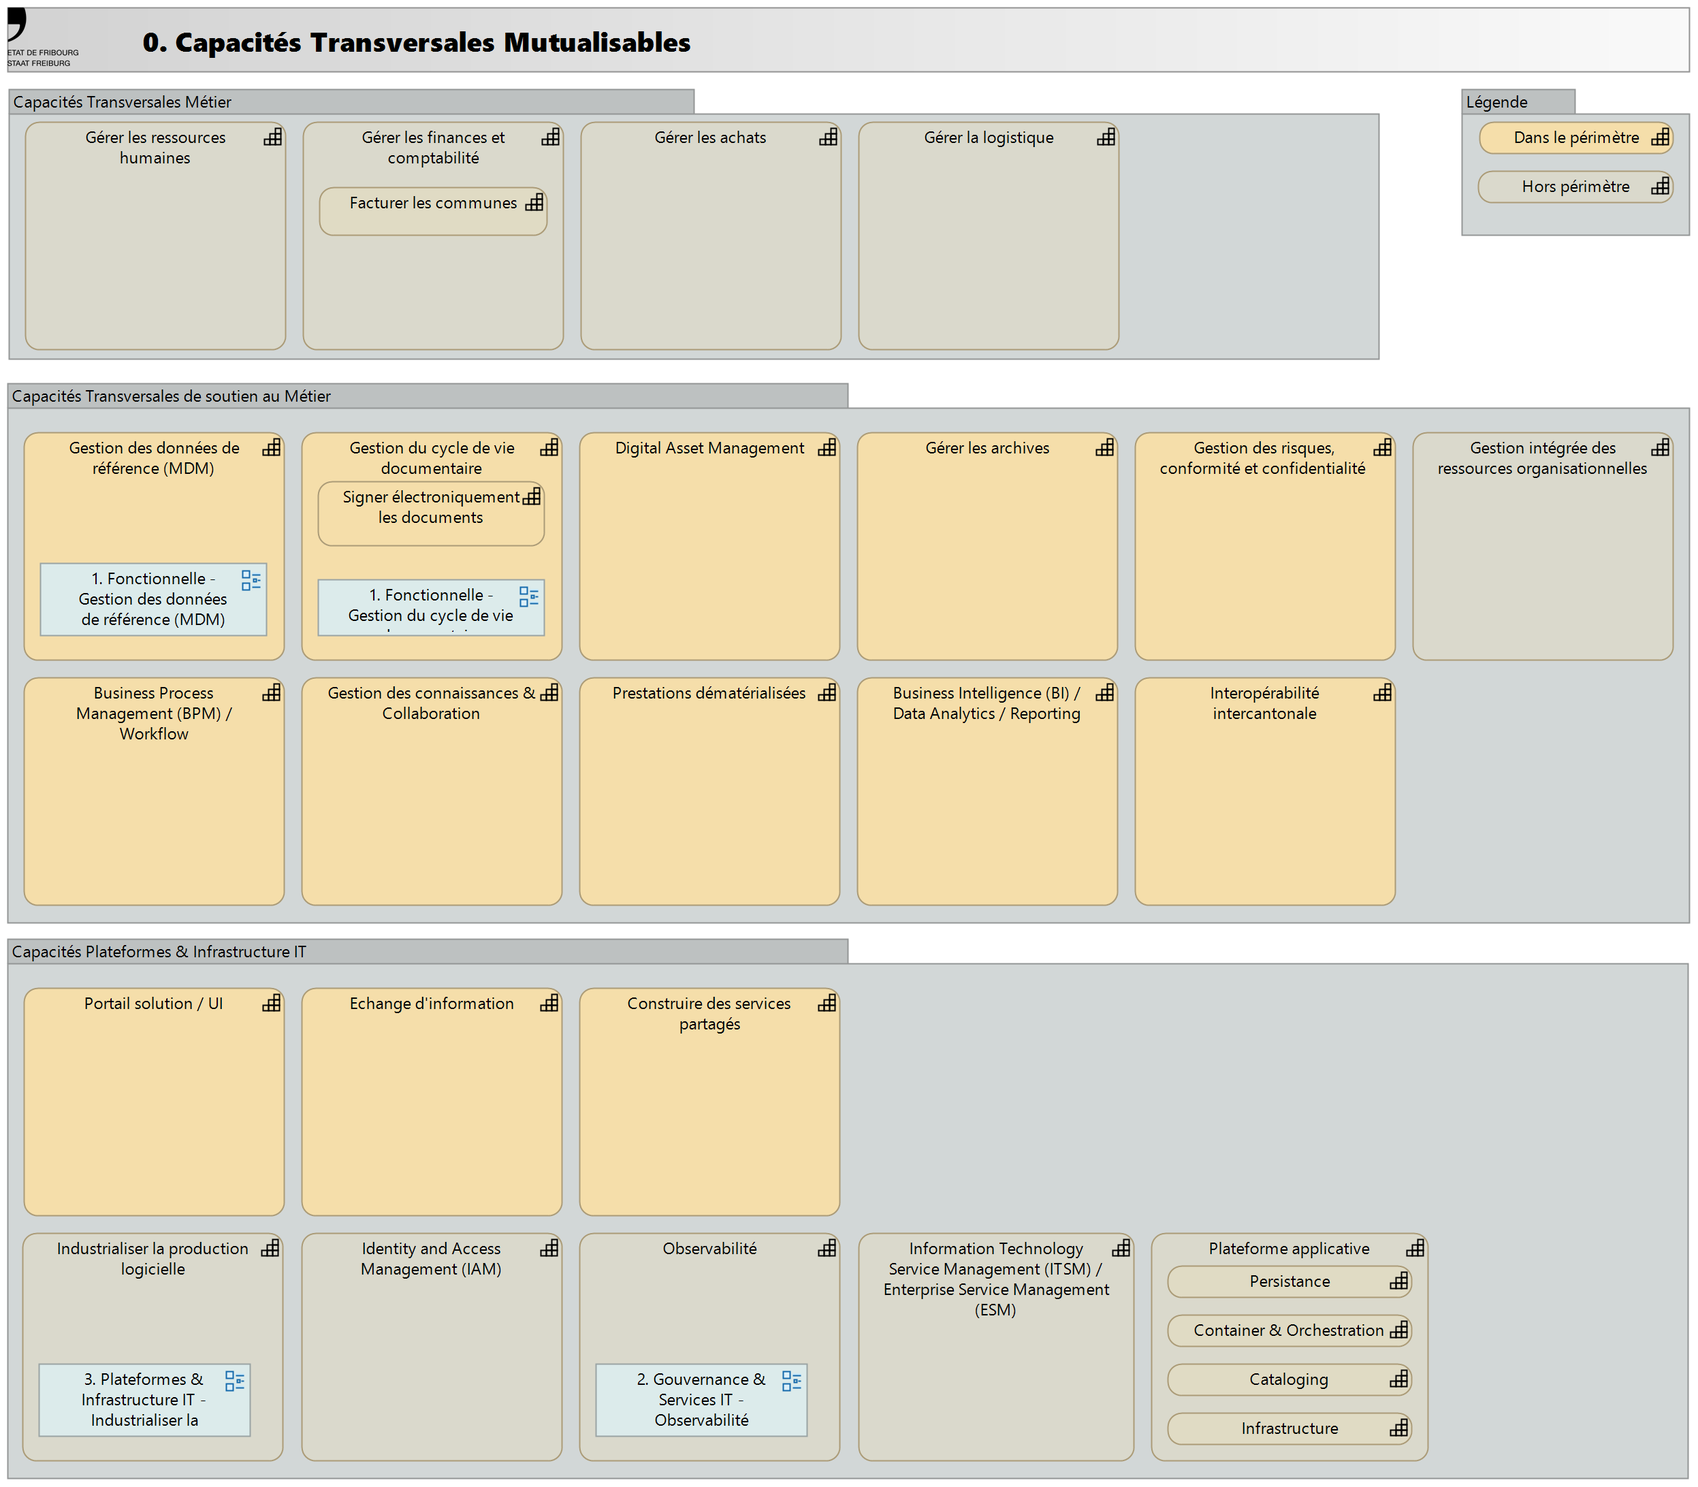
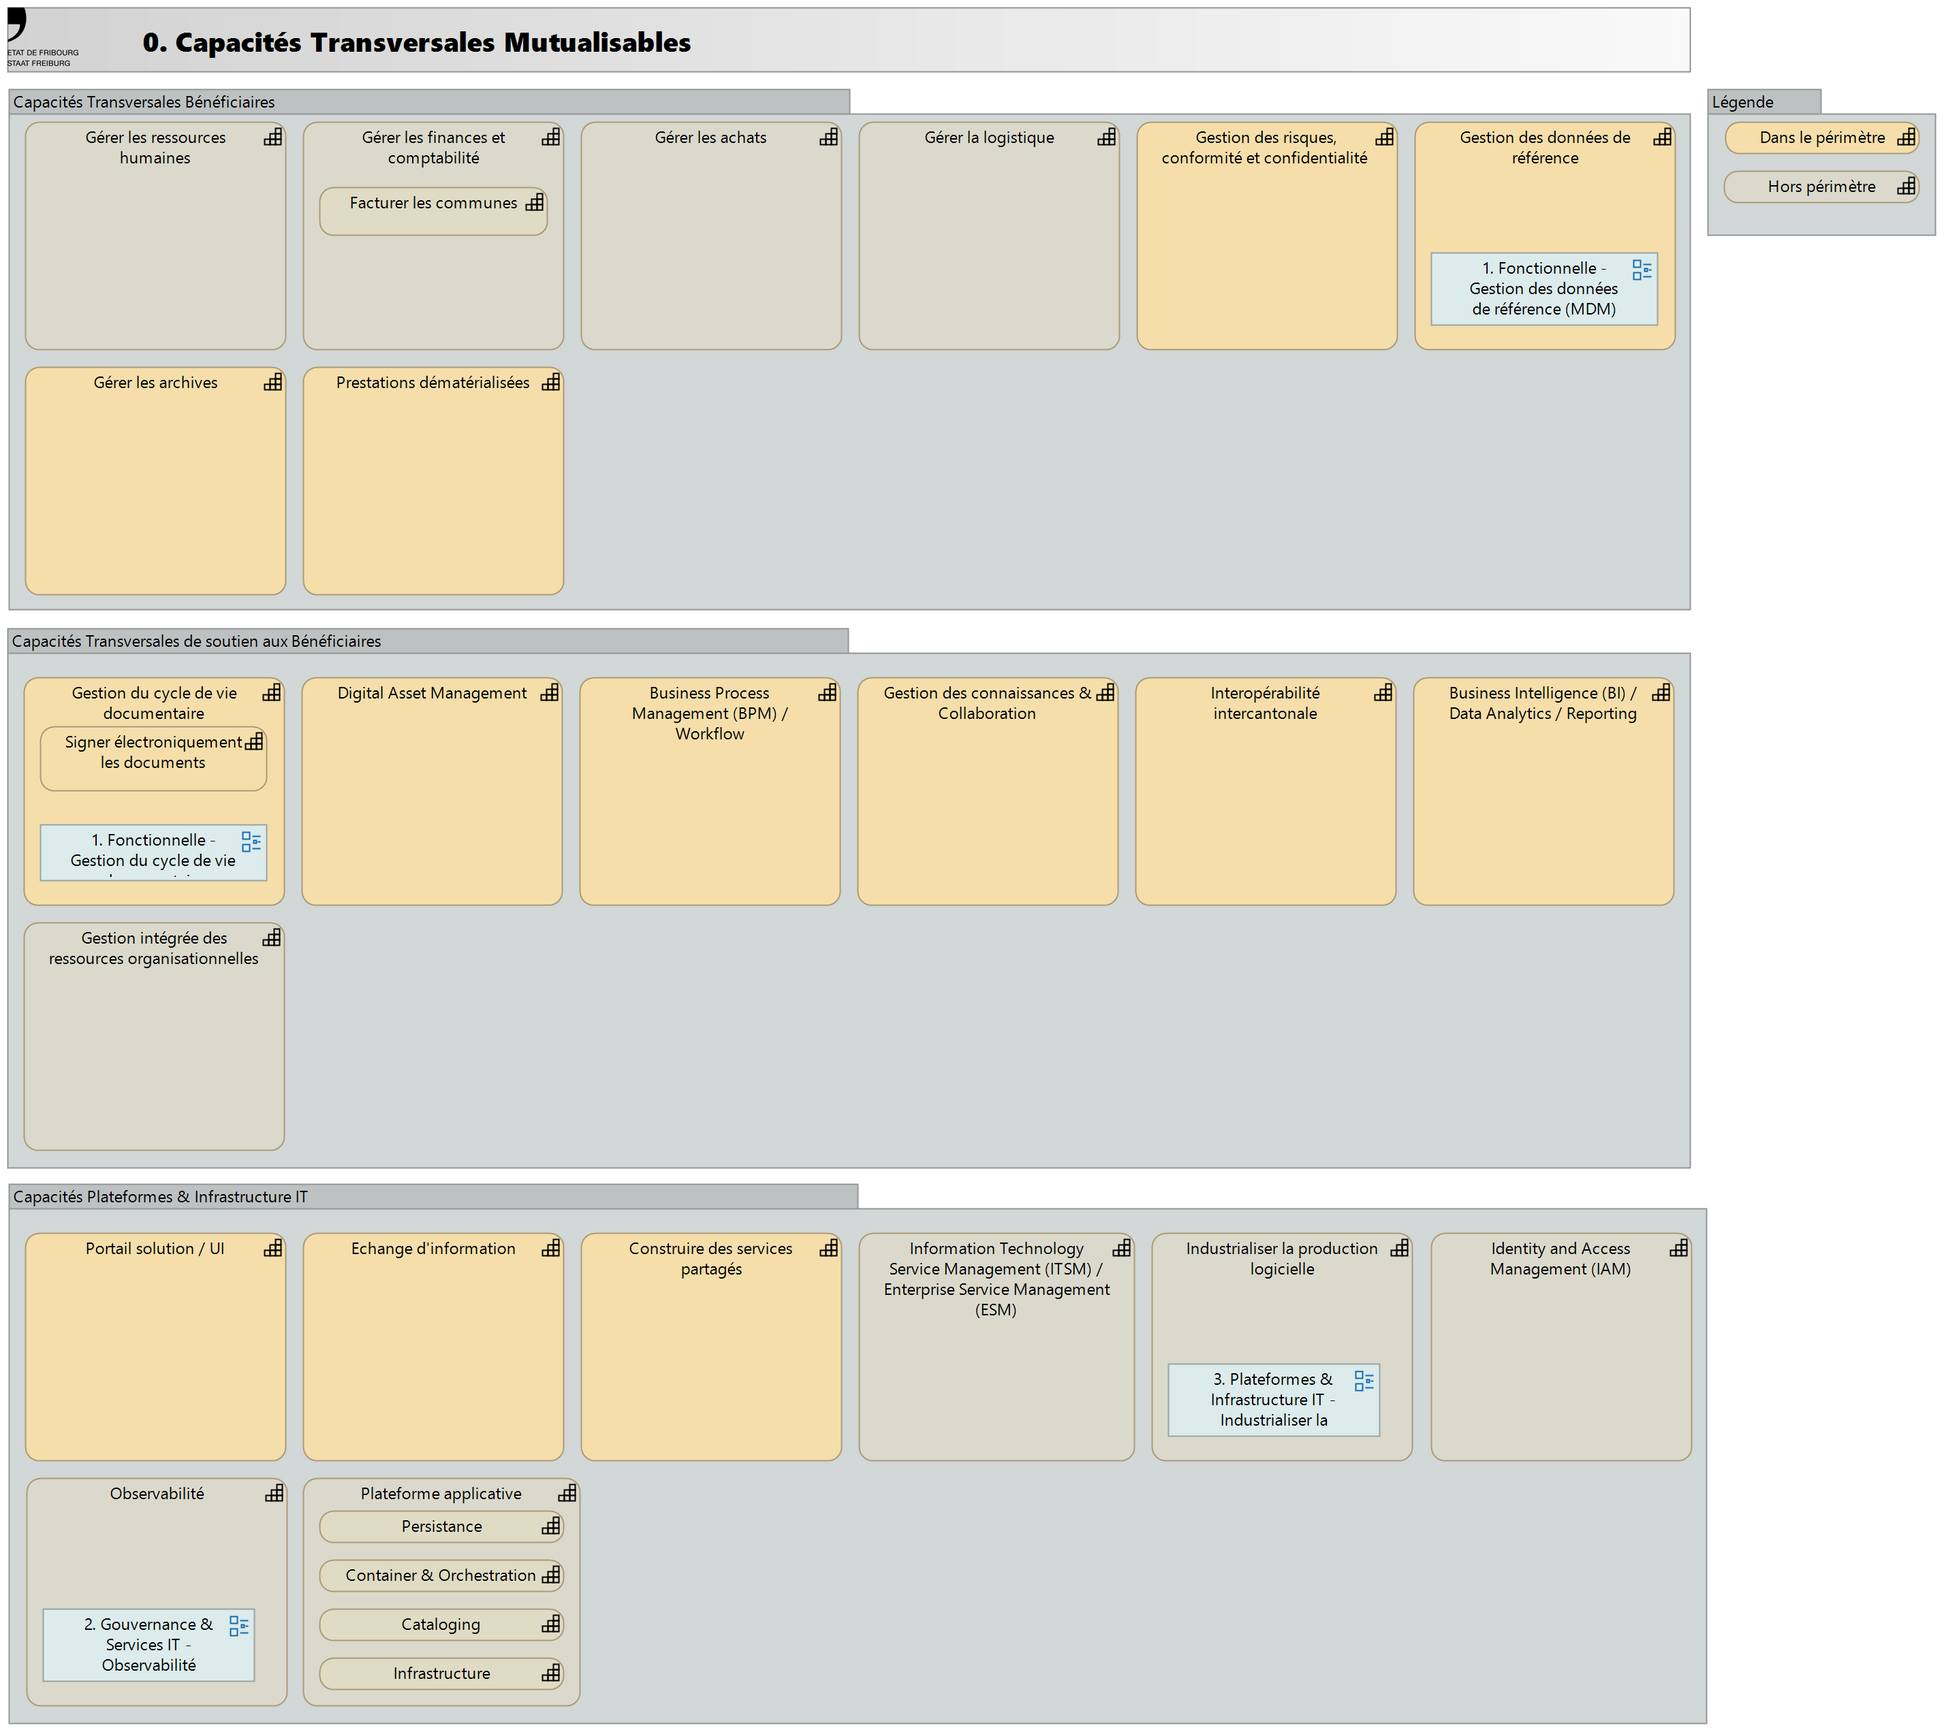
Minor fix on path access

diff --git a/_clients/SITEL/extractMD/0.-Capacités-Transversales-Mutualisables.md b/_clients/SITEL/extractMD/0.-Capacités-Transversales-Mutualisables.md
@@ -7,7 +7,7 @@ title: "Capacity Overview"
 ![0. Capacités Transversales Mutualisables](0.-Capacités-Transversales-Mutualisables.png)
 
 
-## Capacités Transversales de soutien au Métier
+## Capacités Transversales de soutien aux Bénéficiaires
 
 |Capacité|Intention|
 |-|-|
@@ -15,13 +15,9 @@ title: "Capacity Overview"
 |Gestion du cycle de vie documentaire|Capacité à produire, classifier, valider, diffuser, archiver et détruire les documents institutionnels tout au long de leur cycle de vie, en garantissant leur intégrité, traçabilité et conformité légale. Couvre les documents structurés et non structurés, papier et numériques.<br><br>Éléments clés <br>- Création et capture de documents (production, numérisation, import)<br>- Classification et indexation selon plan de classement métier<br>- Gestion des métadonnées documentaires<br>- Workflow de validation et d'approbation<br>- Gestion des versions et des révisions<br>- Contrôle d'accès et droits de consultation<br>- Distribution et diffusion contrôlée<br>- Gestion de la durée de conservation (calendrier de conservation)<br>- Gestion hybride papier/numérique|
 |Business Intelligence (BI) / Data Analytics / Reporting|Capacité à collecter, transformer, analyser et restituer les données de l'organisation pour produire des indicateurs, tableaux de bord et analyses au service du pilotage décisionnel. Couvre l'analytics descriptif, prédictif et prescriptif.<br><br>Éléments clés<br>- Extraction et intégration de données multi-sources (ETL/ELT)<br>- Modélisation dimensionnelle et entrepôts de données (data warehouse)<br>- Création de tableaux de bord interactifs et indicateurs (KPI)<br>- Reporting standardisé et ad-hoc<br>- Analyse self-service (libre-service pour utilisateurs métiers)<br>- Analytics avancé (statistiques, data mining, ML)<br>- Analytics prédictif et prescriptif<br>- Visualisation de données (dataviz)<br>- Distribution automatisée des rapports<br>- Conformité à la protection des données (anonymisation, pseudonymisation)|
 |Gestion des connaissances & Collaboration|Capacité à capitaliser, structurer, partager et valoriser les connaissances explicites et tacites de l'organisation. <br>Favorise le travail collaboratif synchrone et asynchrone, le partage d'expertise et l'intelligence collective entre collaborateurs et directions.<br><br>Éléments clés <br>- Capitalisation des connaissances expertes et documentaires<br>- Base de connaissances structurée et moteur de recherche<br>- Espaces collaboratifs par projet ou communauté de pratique<br>- Coédition de documents en temps réel<br>- Gestion des wikis et documentation collaborative<br>- Forums de discussion et questions-réponses<br>- Partage de fichiers et gestion de versions collaboratives<br>- Outils de communication synchrone (visioconférence, messagerie instantanée)<br>- Gestion des communautés de pratique|
-|Prestations dématérialisées|Capacité à proposer des services publics numériques accessibles en ligne aux citoyens, entreprises et autres usagers. Couvre l'ensemble du parcours utilisateur : information, authentification, saisie de demande, suivi de dossier, paiement, notification, archivage.<br><br>Éléments clés <br>- Catalogue de services en ligne (guichet virtuel)<br>- Authentification forte et gestion des identités usagers (eID, SwissID)<br>- Formulaires intelligents et dématérialisés<br>- Saisie et dépôt de demandes en ligne<br>- Signature électronique pour les usagers<br>- Paiement en ligne sécurisé<br>- Suivi de dossier en temps réel (statuts, notifications)<br>- Espace personnel usager (historique, documents)<br>- Notifications multicanales (email, SMS, push)<br>- Accessibilité numérique (WCAG, normes P028)<br>- Multilinguisme (FR/DE minimum)<br>- Intégration avec les systèmes back-office métiers<br>- Archivage probant des transactions<br>- Support omnicanal (web, mobile, bornes)|
 |Digital Asset Management|Capacité à centraliser, organiser, enrichir et diffuser les actifs numériques de l'administration cantonale : images, vidéos, fichiers audio, logos, chartes graphiques, publications. Assure la gestion des droits d'auteur, des métadonnées, des versions et facilite la réutilisation contrôlée des contenus multimédias par les directions et partenaires.<br><br>Éléments clés<br>- Centralisation des contenus multimédias<br>- Gestion des métadonnées et taxonomies<br>- Gestion des droits et licences<br>- Gestion des versions et workflow de validation<br>- Recherche et diffusion des actifs<br>- Transformation et adaptation des formats<br>- Traçabilité des usages<br>- Intégration avec les outils de publication (web, print)|
 |Gestion intégrée des ressources organisationnelles|Capacité à gérer de manière intégrée les ressources financières, matérielles, humaines et logistiques de l'organisation cantonale. Assure la cohérence des données transactionnelles et le pilotage opérationnel transverse (finances, achats, RH, logistique).<br><br>Éléments clés<br>- Gestion financière intégrée (comptabilité générale, analytique, budgétaire)<br>- Gestion des ressources humaines (administration du personnel, paie)<br>- Gestion des achats et approvisionnements<br>- Gestion des stocks et inventaires<br>- Gestion logistique (bâtiments, véhicules, équipements)<br>- Gestion des projets et investissements<br>- Gestion des immobilisations<br>- Consolidation multi-entités<br>- Workflows de validation intégrés (engagements, factures, notes de frais)<br>- Reporting transversal consolidé<br>- Gestion des interfaces avec systèmes métiers spécifiques<br>- Conformité aux standards publics (MCH2, plan comptable cantonal)<br>- Traçabilité et audit trail complet|
-|Gestion des risques, conformité et confidentialité |Capacité à protéger les systèmes d'information contre les cybermenaces, à garantir la conformité aux exigences légales IT/Data (LPD, RGPD) et à assurer la confidentialité des données sensibles. Couvre la cybersécurité, la gestion des vulnérabilités et la prévention de la perte de données.<br><br>Éléments clés<br>- Identification et évaluation des risques cyber et données<br>- Gestion des vulnérabilités et patchs de sécurité<br>- Détection et réponse aux incidents de sécurité (SOC)<br>- Protection contre les malwares et ransomwares<br>- Gestion des accès privilégiés<br>- Chiffrement des données sensibles (at rest, in transit)<br>- Data Loss Prevention (DLP)<br>- Conformité LPD/RGPD (registre des traitements, DPIA, gestion des droits)<br>- Gestion des consentements et des droits des personnes<br>- Security awareness et formation des utilisateurs<br>- Tests d'intrusion et audits de sécurité<br>- Plan de continuité et de reprise après incident (PCA/PRA)<br>- Conformité aux standards (ISO 27001, NIST)<br>- Gestion des tiers et fournisseurs (risque cyber supply chain)|
-|Gérer les archives|Capacité à assurer la conservation à long terme des documents ayant une valeur légale, historique ou patrimoniale, conformément à la législation cantonale sur l'archivage. Couvre l'évaluation archivistique, le versement, le classement, la conservation pérenne (physique et numérique), la valorisation et la communication des archives publiques aux chercheurs et citoyens.<br><br>Éléments clés<br>- Évaluation et sélection des documents à archiver<br>- Versement des archives courantes et intermédiaires<br>- Conservation pérenne (physique et numérique)<br>- Classement et description archivistique<br>- Numérisation patrimoniale<br>- Gestion des demandes de consultation<br>- Valorisation du patrimoine archivistique<br>- Conformité aux normes archivistiques (ISO 15489, ICA)|
 |Interopérabilité intercantonale|Capacité à échanger des données et des services avec d'autres cantons, la Confédération et les communes dans le respect des standards suisses et des cadres légaux. <br><br>Éléments clés<br>- Conformité aux standards suisses (eCH, sedex, etc.)<br>- Gestion des identités fédérées (eID, reconnaissance mutuelle des authentifications)<br>- Échange sécurisé de données via les plateformes nationales (sedex, HIN, etc.)<br>- Participation aux projets nationaux (eGovernment Suisse, guichets virtuels communs)|
-|Gestion des données de référence (MDM)|Capacité à identifier, consolider, maintenir et diffuser les données de référence communes à l'ensemble de l'organisation cantonale. Assure l'unicité, la cohérence et la qualité des données maîtres partagées entre les systèmes et les directions métiers.<br><br>Éléments clés<br>- Identification et qualification des données de référence (personnes, organisations, territoires, nomenclatures)<br>- Consolidation et dédoublonnage des données maîtres multi-sources<br>- Gestion du cycle de vie des données de référence (création, mise à jour, archivage)<br>- Règles de gestion de la qualité des données (complétude, cohérence, conformité)<br>- Distribution et synchronisation vers les systèmes consommateurs<br>- Gouvernance des données de référence (ownership, processus de validation)<br>- Gestion des référentiels partagés (types de documents, statuts, codes postaux, etc.)<br>- Traçabilité des modifications et historisation|
 
 
 
@@ -40,7 +36,7 @@ title: "Capacity Overview"
 
 
 
-## Capacités Transversales Métier
+## Capacités Transversales Bénéficiaires
 
 |Capacité|Intention|
 |-|-|
@@ -48,6 +44,10 @@ title: "Capacity Overview"
 |Gérer les finances et comptabilité|Capacité à planifier, exécuter et contrôler le budget cantonal selon les principes de comptabilité publique (MCH2). Couvre la comptabilité générale et analytique, la gestion de trésorerie, le contrôle budgétaire, la consolidation des comptes et le reporting financier. Garantit la conformité aux obligations légales cantonales et fédérales en matière de finances publiques.<br><br>Éléments clés<br>- Planification et suivi budgétaire<br>- Comptabilité générale et analytique (MCH2)<br>- Gestion de la trésorerie<br>- Contrôle de gestion financier<br>- Facturation et encaissements<br>- Gestion des créanciers et débiteurs<br>- Clôture et consolidation comptable<br>- Reporting financier et audit<br><br>|
 |Gérer les achats|Capacité à planifier, organiser et réaliser les acquisitions de biens et services nécessaires au fonctionnement de l'administration cantonale, dans le respect de la législation sur les marchés publics (LMP, accords OMC/GATT). Couvre l'expression des besoins, la sélection des fournisseurs, la négociation contractuelle, le suivi des commandes et la gestion de la relation fournisseurs.<br><br>Éléments clés <br>- Analyse des besoins et consultation du marché<br>- Procédures d'appel d'offres (gré à gré, ouverte, sélective)<br>- Évaluation et sélection des fournisseurs<br>- Négociation et contractualisation<br>- Gestion des commandes et réceptions<br>- Contrôle qualité et conformité<br>- Gestion du référentiel fournisseurs<br>- Conformité aux règles des marchés publics|
 |Gérer la logistique|Capacité à gérer les moyens matériels et infrastructures nécessaires au fonctionnement de l'administration : gestion des espaces (bâtiments, salles), du parc mobilier, des stocks, des fournitures, des équipements et de la logistique événementielle. Assure l'optimisation des ressources physiques, la maintenance préventive et la conformité aux normes de sécurité.<br><br>Éléments clés<br>- Gestion des bâtiments et espaces de travail<br>- Gestion du parc automobile<br>- Gestion des stocks et approvisionnements<br>- Gestion des fournitures de bureau<br>- Maintenance des équipements<br>- Logistique événementielle (salles, équipements)<br>- Gestion des déménagements et aménagements<br>- Sécurité des installations|
+|Gestion des données de référence|Capacité à identifier, consolider, maintenir et diffuser les données de référence communes à l'ensemble de l'organisation cantonale. Assure l'unicité, la cohérence et la qualité des données maîtres partagées entre les systèmes et les directions métiers.<br><br>Éléments clés<br>- Identification et qualification des données de référence (personnes, organisations, territoires, nomenclatures)<br>- Consolidation et dédoublonnage des données maîtres multi-sources<br>- Gestion du cycle de vie des données de référence (création, mise à jour, archivage)<br>- Règles de gestion de la qualité des données (complétude, cohérence, conformité)<br>- Distribution et synchronisation vers les systèmes consommateurs<br>- Gouvernance des données de référence (ownership, processus de validation)<br>- Gestion des référentiels partagés (types de documents, statuts, codes postaux, etc.)<br>- Traçabilité des modifications et historisation|
+|Gérer les archives|Capacité à assurer la conservation à long terme des documents ayant une valeur légale, historique ou patrimoniale, conformément à la législation cantonale sur l'archivage. Couvre l'évaluation archivistique, le versement, le classement, la conservation pérenne (physique et numérique), la valorisation et la communication des archives publiques aux chercheurs et citoyens.<br><br>Éléments clés<br>- Évaluation et sélection des documents à archiver<br>- Versement des archives courantes et intermédiaires<br>- Conservation pérenne (physique et numérique)<br>- Classement et description archivistique<br>- Numérisation patrimoniale<br>- Gestion des demandes de consultation<br>- Valorisation du patrimoine archivistique<br>- Conformité aux normes archivistiques (ISO 15489, ICA)|
+|Prestations dématérialisées|Capacité à proposer des services publics numériques accessibles en ligne aux citoyens, entreprises et autres usagers. Couvre l'ensemble du parcours utilisateur : information, authentification, saisie de demande, suivi de dossier, paiement, notification, archivage.<br><br>Éléments clés <br>- Catalogue de services en ligne (guichet virtuel)<br>- Authentification forte et gestion des identités usagers (eID, SwissID)<br>- Formulaires intelligents et dématérialisés<br>- Saisie et dépôt de demandes en ligne<br>- Signature électronique pour les usagers<br>- Paiement en ligne sécurisé<br>- Suivi de dossier en temps réel (statuts, notifications)<br>- Espace personnel usager (historique, documents)<br>- Notifications multicanales (email, SMS, push)<br>- Accessibilité numérique (WCAG, normes P028)<br>- Multilinguisme (FR/DE minimum)<br>- Intégration avec les systèmes back-office métiers<br>- Archivage probant des transactions<br>- Support omnicanal (web, mobile, bornes)|
+|Gestion des risques, conformité et confidentialité |Capacité à protéger les systèmes d'information contre les cybermenaces, à garantir la conformité aux exigences légales IT/Data (LPD, RGPD) et à assurer la confidentialité des données sensibles. Couvre la cybersécurité, la gestion des vulnérabilités et la prévention de la perte de données.<br><br>Éléments clés<br>- Identification et évaluation des risques cyber et données<br>- Gestion des vulnérabilités et patchs de sécurité<br>- Détection et réponse aux incidents de sécurité (SOC)<br>- Protection contre les malwares et ransomwares<br>- Gestion des accès privilégiés<br>- Chiffrement des données sensibles (at rest, in transit)<br>- Data Loss Prevention (DLP)<br>- Conformité LPD/RGPD (registre des traitements, DPIA, gestion des droits)<br>- Gestion des consentements et des droits des personnes<br>- Security awareness et formation des utilisateurs<br>- Tests d'intrusion et audits de sécurité<br>- Plan de continuité et de reprise après incident (PCA/PRA)<br>- Conformité aux standards (ISO 27001, NIST)<br>- Gestion des tiers et fournisseurs (risque cyber supply chain)|
 
 
 
